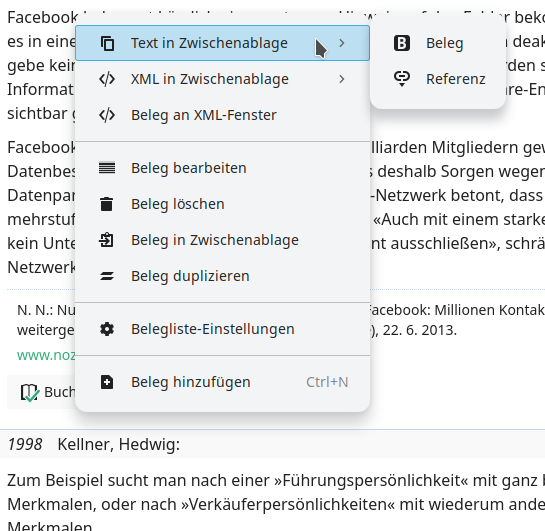
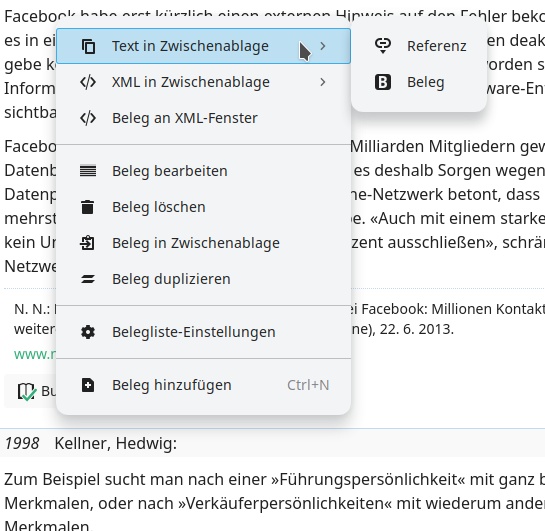
Change: die Reihenfolge der Befehle im Rechtsklickmenü wurde angepasst, sodass Belegreferenzen leichter kopiert werden können

Changed region(s): [[0.0, 0.0, 1.0, 1.0], [0.156, 0.5122, 0.4679, 0.5424], [0.7486, 0.0, 0.811, 0.0301]]

diff --git a/js/app/popup.js b/js/app/popup.js
@@ -70,8 +70,8 @@ const popup = {
     let xmlCopy = [ "xmlReferenz" ];
     let textCopy = [ "textReferenz" ];
     if (popup.belegID) {
-      xmlCopy = [ "xmlBelegComplete", "xmlReferenz" ];
-      textCopy = [ "textComplete", "textReferenz" ];
+      xmlCopy = [ "xmlReferenz", "xmlBelegComplete" ];
+      textCopy = [ "textReferenz", "textComplete" ];
     }
     let items = [];
     if (target === "kopieren") {
@@ -92,7 +92,7 @@ const popup = {
       }
       items.push({ name: "text", sub: [ "kopieren", "textReferenz" ] });
       if (selInBeleg) {
-        items.push({ name: "xml", sub: [ "xmlBeleg", "xmlReferenz" ] }, "xmlFenster");
+        items.push({ name: "xml", sub: [ "xmlReferenz", "xmlBeleg" ] }, "xmlFenster");
       } else if (/^(karte|liste)$/.test(helfer.hauptfunktion)) {
         items.push({ name: "xml", sub: xmlCopy });
       }

diff --git a/win/changelog.html b/win/changelog.html
@@ -63,7 +63,7 @@
         <h3>Verbesserungen</h3>
 
         <ul>
-          <li></li>
+          <li><a href="#belegliste" class="link-handbuch">Belegliste</a>: Die Reihenfolge der Befehle im Rechtsklickmenü wurde angepasst, sodass die Belegreferenz schneller zu kopieren ist.</li>
         </ul>
 
         <h3>Updates</h3>
